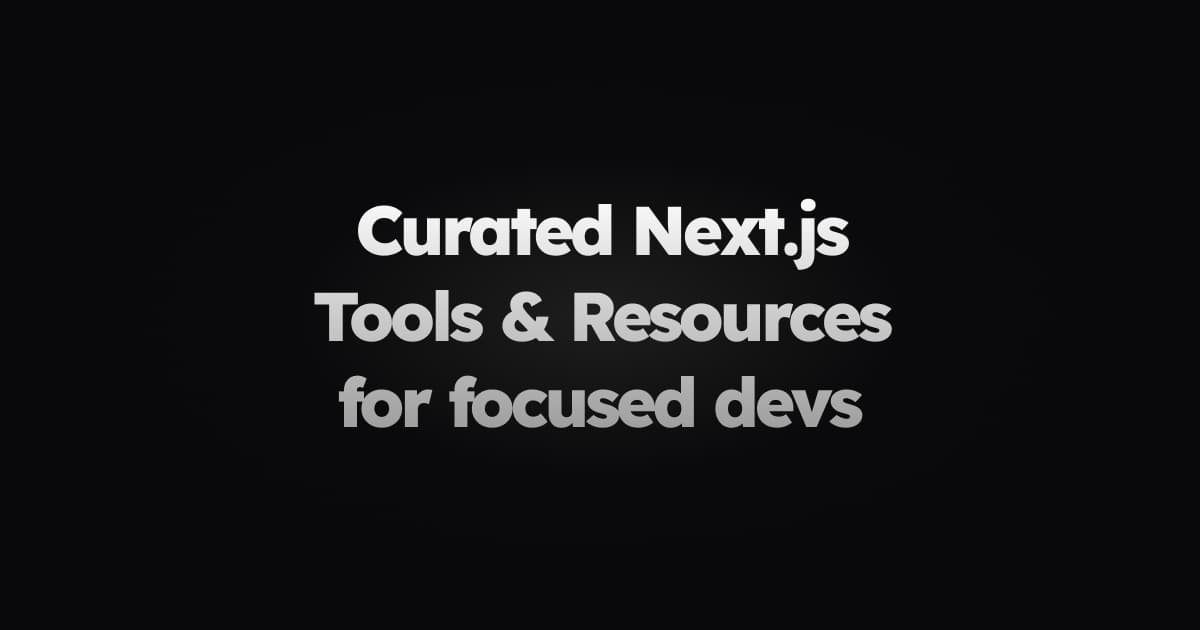
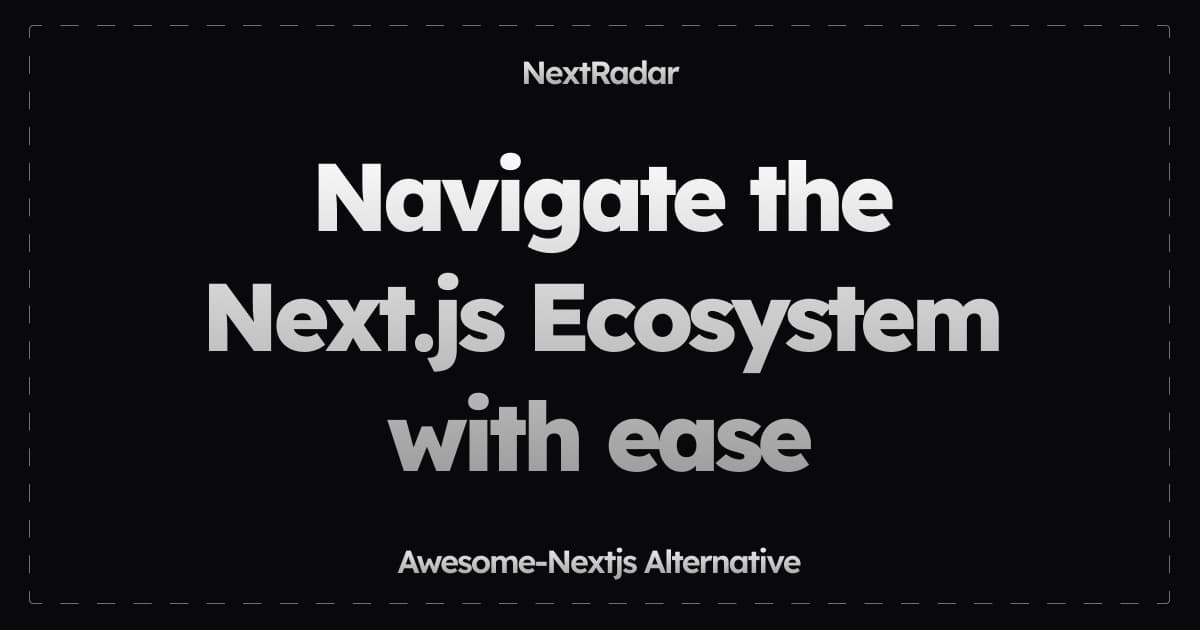
feat: update the hero section & og images

Changed region(s): [[0.1542, 0.2413, 0.8325, 0.754], [0.3083, 0.8746, 0.6783, 0.9349], [0.4317, 0.0905, 0.5858, 0.1508]]

diff --git a/app/page.tsx b/app/page.tsx
@@ -26,12 +26,14 @@ export default async function HomePage() {
     <main className="min-h-screen">
       <div className="h-[80vh] flex-col-center ">
         <div className="flex flex-col justify-center text-center animate-in">
-          <h1 className="mb-4 text-2xl font-extrabold md:text-4xl lg:text-5xl tracking-tight text-center max-w-2xl text-balance mx-auto">
-            Curated Next.js Tools & Resources for focused devs
+          <h1 className="h1 mb-4 text-3xl font-extrabold md:text-4xl lg:text-5xl tracking-tight text-center max-w-md leading-[2.4rem] mx-auto">
+            Navigate the Next.js Ecosystem with ease
           </h1>
-          <p className="text-lg md:text-xl text-center max-w-2xl mx-auto dark:text-zinc-400">
-            Keeping up with Next.js ecosystem can be overwhelming. We filter the
-            noise, delivering only what matters.
+          <p className="text-lg text-center max-w-2xl mx-auto font-medium  px-1 dark:text-zinc-400 border rounded-sm border-dashed">
+            Awesome-Nextjs Alternative
+          </p>
+          <p className="text-lg md:text-xl text-center max-w-2xl mx-auto dark:text-zinc-500 font-medium">
+            Stay up to date with the latest Next.js tools and resources.
           </p>
           <Button
             asChild

diff --git a/app/global.css b/app/global.css
@@ -8,3 +8,21 @@
     justify-content: center;
     align-items: center;
 }
+@layer components {
+    .h1-dark {
+        background: linear-gradient(180deg, #ffffff 0%, hsl(0, 0%, 67%) 100%),
+            #ffffff;
+        background-clip: text;
+    }
+
+    .h1-light {
+        background: linear-gradient(180deg,
+                hsla(224, 71%, 4%, 47%) 0%,
+                hsl(224, 71%, 4%) 100%),
+            #ffffff;
+    }
+
+    .h1 {
+        @apply dark:h1-dark h1-light bg-clip-text text-transparent;
+    }
+}
